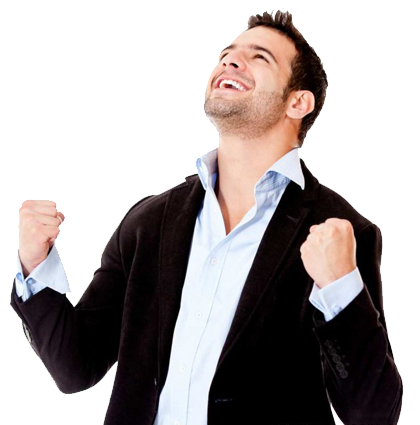
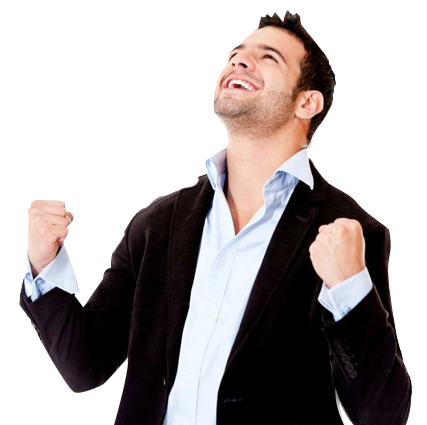
man.png

diff --git a/page/union/html/lotto6.html b/page/union/html/lotto6.html
@@ -17,13 +17,13 @@ title: Hookbag
     <div class="tit tac">
       <h2>中奖提示</h2>
     </div>
-    <div class="mt20 container alert alert-success row" style="max-width:600px;">
-
-      <div class="col-sm-2 mr20 icon-info3" style="font-size:4rem;"></div>
-			<div class="col-sm-10">
-			<p>1.	You have won a CAD 50 cash prize. Please check it in your Cash Account. (View Cash Account)</p>
-			<p>2.	You can win another CAD 75 task bonus (Expiration Date), but you should join Hookbag Commission Referral Program first. Please fill in your nickname and agree with Hookbag’s Commission Referral Program Activities Agreement.  Hookbag Commission Referral Program Introduction</p>
-    
+    <div class="mt20 container alert alert-success" style="max-width:600px;">
+			<div class="row">
+				<div class="col-sm-1 icon-info3" style="font-size:4rem;"></div>
+				<div class="col-sm-11">
+					<p>1.	You have won a CAD 50 cash prize. Please check it in your Cash Account. (View Cash Account)</p>
+					<p>2.	You can win another CAD 75 task bonus (Expiration Date), but you should join Hookbag Commission Referral Program first. Please fill in your nickname and agree with Hookbag’s Commission Referral Program Activities Agreement.  Hookbag Commission Referral Program Introduction</p>
+				</div>
 			</div>
     </div>
 

diff --git a/page/union/html/task1.html b/page/union/html/task1.html
@@ -67,9 +67,10 @@ title: Hookbag
 										<input type="text" class="form-control" id="input2" placeholder="message" disabled>
 									</div>
 								</div>
-								<img src="../img/851x315.png" class="img-responsive">
-								<div style="border:1px dotted #ddd;padding:10px 20px;margin-top:20px;">
-								<h4>Hookbag: Lucky Cash & Commission Referral Program Club</h4>
+								<div style="border:1px solid #ddd;margin-top:20px;padding:5px;background:#f3f3f3;">
+								<img src="../img/851x315.png" class="img-responsive" style="width:90px;height:90px;float:left;margin-right:15px;">
+								<h5 style="margin-bottom:0;"><strong>Hookbag: Lucky Cash & Commission Referral Program Club</strong></h5>
+								<a style="color:#aaa;" href="http://www.hookbag.ca" target="_black">www.hookbag.ca</a>
 								<p>I bought something on Hookbag,  I won $ 50 for buying from them, and I made another $ 75 for just sharing  about it on Facebook and creating a link between my page and Hookbag.  Easiest money I have ever made. Take a look at <a href="http://www.hookbag.ca" target="_black">www.hookbag.ca</a>, they are giving away lots of cash to new and old customers  in their contest promotions.</p>
 								</div>
 							</form>

diff --git a/page/union/html/index.html b/page/union/html/index.html
@@ -8,10 +8,10 @@ title: Hookbag
 
 <div class="scene share banner" data-0="top:100px;" data-56="top:46px;">
   <div class="container color white">
-    <div class="row">
+    <div class="row mt20">
       <div class="col-md-7 animated fadeInLeft delay" data-100="left:0%;" data-300="left:-100%;">
         <h2 class="animated pulse delay">Lucky Cash & CRP Club</h2>
-        <h3 class="animated fadeInLeftBig delay">Once of a CRP member, you will be benifits for the lifetime!</h3>
+        <h3 class="animated delay fadeInLeftBig ">Once of a CRP member, you will be benifits for the lifetime!</h3>
       </div>
     </div>
   </div>
@@ -58,8 +58,8 @@ title: Hookbag
 <div class="scene" data-600="top:100px;display:block;" data-650="display:none;">
   <div class="container color white">
     <div class="row">
-      <div data-100="top:0px;" data-500="top:250px;" class="col-md-5 col-md-push-7 animated fadeInUpBig">
-        <img src="../img/man.png" alt="">
+      <div data-100="top:100px;" data-500="top:250px;" class="col-md-5 col-md-push-7 animated fadeInUpBig">
+        <img class="animated fadeInLeft delay" src="../img/man.png" alt="">
       </div>
     </div>
   </div>

diff --git a/page/union/html/lotto.html b/page/union/html/lotto.html
@@ -7,7 +7,7 @@ title: Hookbag
 
 	<div class="scene mod ceo ui bgc clouds" data-0="top:100px;padding-top:50px;" data-56="top:46px;padding-top:0px;"
 	>
-		<div class="container" style="max-width:600px;">
+		<div class="container" style="max-width:750px;">
 			<h2>Letter from CEO</h2>
     <p>Dear Customer, </p>
     <p>My name is Jerry Pearson, I am the CEO of Hookbag Inc. I would like to take this time on behalf of my team as well as myself to thank all of our customers. </p>
